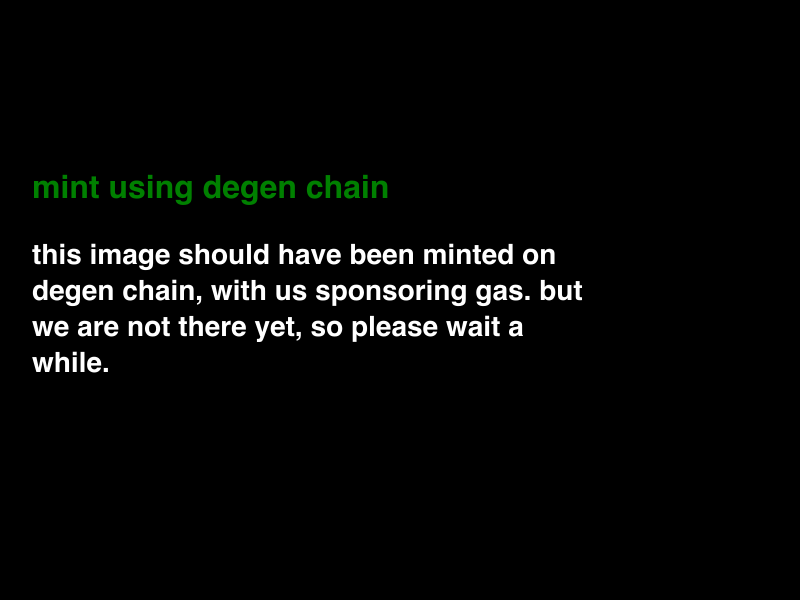
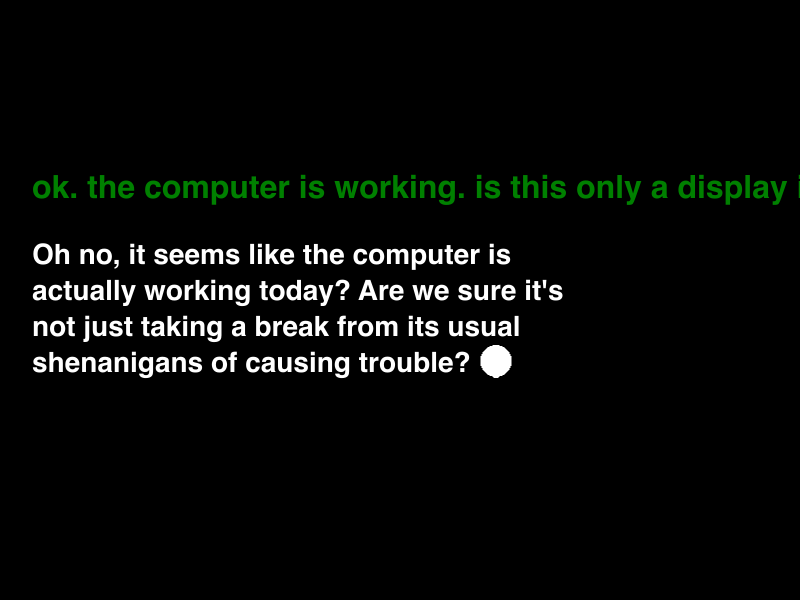
aloja

Changed region(s): [[0.0312, 0.39, 0.75, 0.63], [0.0312, 0.27, 1.0, 0.36]]

diff --git a/routes/farhack/index.js b/routes/farhack/index.js
@@ -25,7 +25,7 @@ router.get("/", async (req, res) => {
       <meta name="fc:frame" content="vNext">
       <meta name="fc:frame:image" content="https://github.com/jpfraneto/images/blob/main/first_frame_image.png?raw=true">
       <meta name="fc:frame:post_url" content="${fullUrl}/farhack">
-      <meta name="fc:frame:button:1" content="activate ${botName}">
+      <meta name="fc:frame:button:1" content="activate">
     </head>
     </html>
     `);
@@ -48,7 +48,8 @@ router.get("/image", async (req, res) => {
     const imageWidth = metadata.width;
     const imageHeight = metadata.height;
 
-    // Approximate maximum characters per line based on the image width
+    // approximate maximum characters per line based on the image width
+
     const maxCharsPerLine = Math.floor(imageWidth / 20); // rough estimate, adjust as needed
 
     function wrapText(text, maxChars) {
@@ -111,18 +112,18 @@ router.get("/image", async (req, res) => {
 router.post("/", async (req, res) => {
   try {
     const fullUrl = req.protocol + "://" + req.get("host");
-    const imageCopy = "times per day?";
+    const imageCopy = "replies to you per day?";
     return res.status(200).send(`
       <!DOCTYPE html>
       <html>
       <head>
         <title>${botName}</title>
         <meta property="og:title" content="anky mint">
-        <meta property="og:image" content=${fullUrl}/farhack/image?text=}>
+        <meta property="og:image" content=${fullUrl}/farhack/bot-image?text=}>
         <meta name="fc:frame" content="vNext">
-        <meta name="fc:frame:image" content=${fullUrl}/farhack/image?text=${encodeURIComponent(
+        <meta name="fc:frame:image" content=${fullUrl}/farhack/bot-image?text=${encodeURIComponent(
       imageCopy
-    )}>
+    )}&userPrompt=${encodeURIComponent("welcome to farhack gtp")}>
         <meta name="fc:frame:post_url" content="${fullUrl}/farhack/second-frame" />
         <meta name="fc:frame:button:1" content="1" />
         <meta name="fc:frame:button:2" content="2" />
@@ -146,18 +147,17 @@ router.post("/second-frame", async (req, res) => {
       let isValidNumber = Number(inputText);
       if (isValidNumber) {
         if (isValidNumber < 11) {
-          imageCopy = `your preference is known. ${isValidNumber}.`;
+          imageCopy = `your preference is known.`;
           return res.status(200).send(`
         <!DOCTYPE html>
         <html>
         <head>
           <title>${botName}</title>
           <meta property="og:title" content="anky mint">
-          <meta property="og:image" content=${fullUrl}/farhack/image?text=}>
           <meta name="fc:frame" content="vNext">
-          <meta name="fc:frame:image" content=${fullUrl}/farhack/image?text=${encodeURIComponent(
+          <meta name="fc:frame:image" content=${fullUrl}/farhack/bot-image?text=${encodeURIComponent(
             imageCopy
-          )}>
+          )}&userPrompt=${encodeURIComponent("see you soon")}>
           </head>
         </html>
           `);
@@ -173,7 +173,7 @@ router.post("/second-frame", async (req, res) => {
           <meta name="fc:frame" content="vNext">
           <meta name="fc:frame:image" content=${fullUrl}/farhack/image?text=${encodeURIComponent(
             imageCopy
-          )}>
+          )}&userPrompt=${encodeURIComponent("")}>
           <meta name="fc:frame:post_url" content="${fullUrl}/farhack/second-frame" />
           <meta name="fc:frame:input:text" content="1 2 3 4 5 6 7 8 9" />
           <meta name="fc:frame:button:1" content="submit" />
@@ -205,25 +205,25 @@ router.post("/second-frame", async (req, res) => {
     }
 
     if ([1, 2, 3].includes(req.body.untrustedData.buttonIndex)) {
-      imageCopy = `your preference is known. ${req.body.untrustedData.buttonIndex}.`;
+      imageCopy = `your preference is known.`;
       return res.status(200).send(`
         <!DOCTYPE html>
         <html>
         <head>
           <title>${botName}</title>
           <meta property="og:title" content="anky mint">
-          <meta property="og:image" content=${fullUrl}/farhack/image?text=}>
+          <meta property="og:image" content=${fullUrl}/farhack/bot-image?text=}>
           <meta name="fc:frame" content="vNext">
-          <meta name="fc:frame:image" content=${fullUrl}/farhack/image?text=${encodeURIComponent(
+          <meta name="fc:frame:image" content=${fullUrl}/farhack/bot-image?text=${encodeURIComponent(
         imageCopy
-      )}>
+      )}&userPrompt=${req.body.untrustedData.buttonIndex}>
           <meta name="fc:frame:post_url" content="${fullUrl}/farhack/second-frame" />
           </head>
         </html>
           `);
     }
 
-    imageCopy = "how many times per day you want to be roasted?";
+    imageCopy = "how many replies per day?";
 
     return res.status(200).send(`
       <!DOCTYPE html>
@@ -351,25 +351,6 @@ router.post("/bot", async (req, res) => {
   try {
     const fullUrl = req.protocol + "://" + req.get("host");
     res.setHeader("Content-Type", "text/html");
-    console.log("in heeeere", req.body);
-    if (req.body.untrustedData.buttonIndex == 2) {
-      return res.status(200).send(`
-      <!DOCTYPE html>
-      <html>
-      <head>
-        <title>${botName}</title>
-        <meta property="og:title" content="anky mint">
-        <meta property="og:image" content=${fullUrl}/farhack/bot-image?text=${encodeURIComponent(
-        "this image should have been minted on degen chain, with us sponsoring gas. but we are not there yet, so please wait a while."
-      )}}>
-        <meta name="fc:frame" content="vNext">
-        <meta name="fc:frame:image" content=${fullUrl}/farhack/bot-image?text=${encodeURIComponent(
-        "this image should have been minted on degen chain, with us sponsoring gas. but we are not there yet, so please wait a while."
-      )}&userPrompt=${encodeURIComponent("mint using degen chain")}>
-        </head>
-      </html>
-        `);
-    }
     let botResponse;
 
     let userText =
@@ -397,7 +378,6 @@ router.post("/bot", async (req, res) => {
         <meta name="fc:frame:post_url" content="${fullUrl}/farhack/bot" />
         <meta name="fc:frame:input:text" content="..." />
         <meta name="fc:frame:button:1" content="↑" />
-        <meta name="fc:frame:button:2" content="mint" />
         </head>
       </html>
         `);
